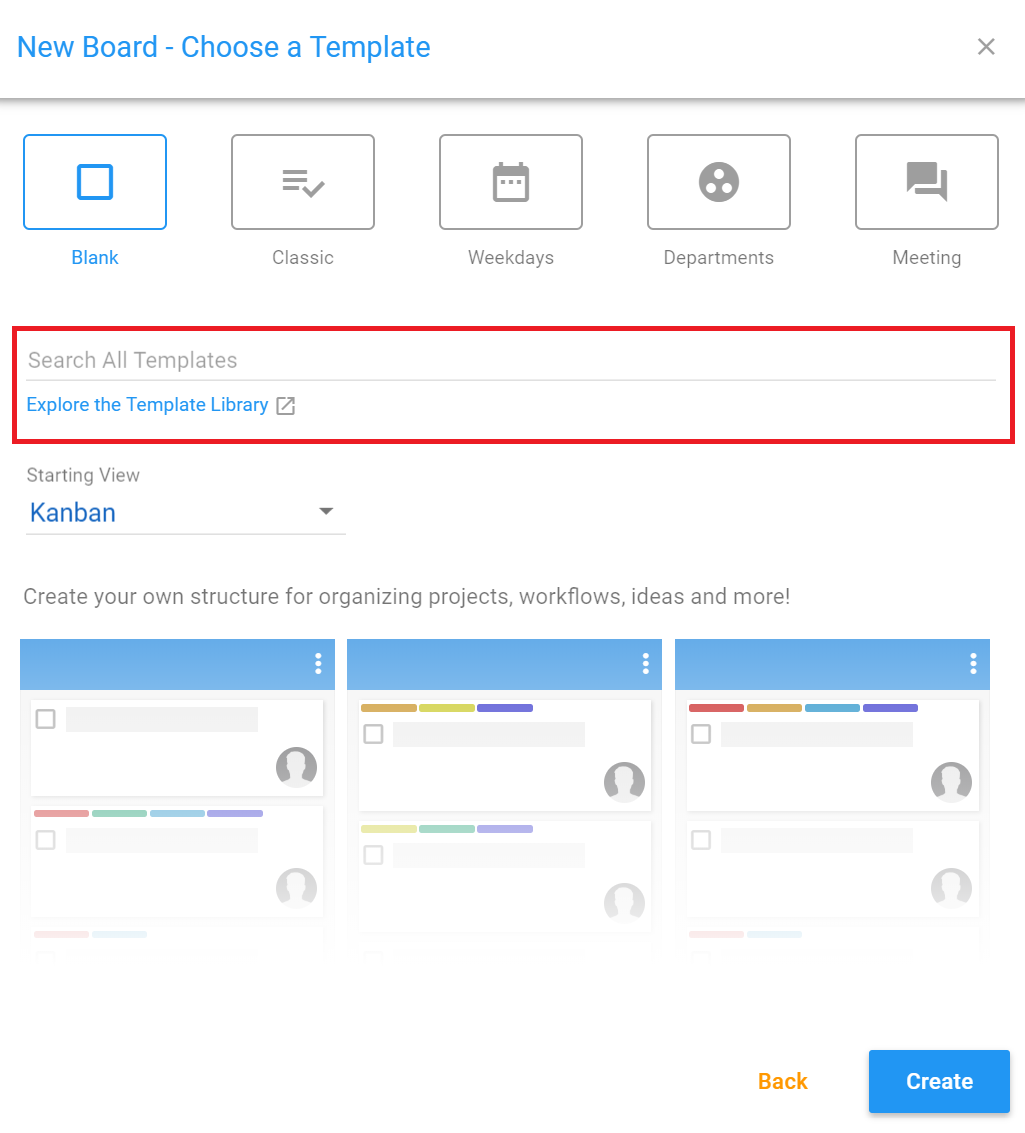
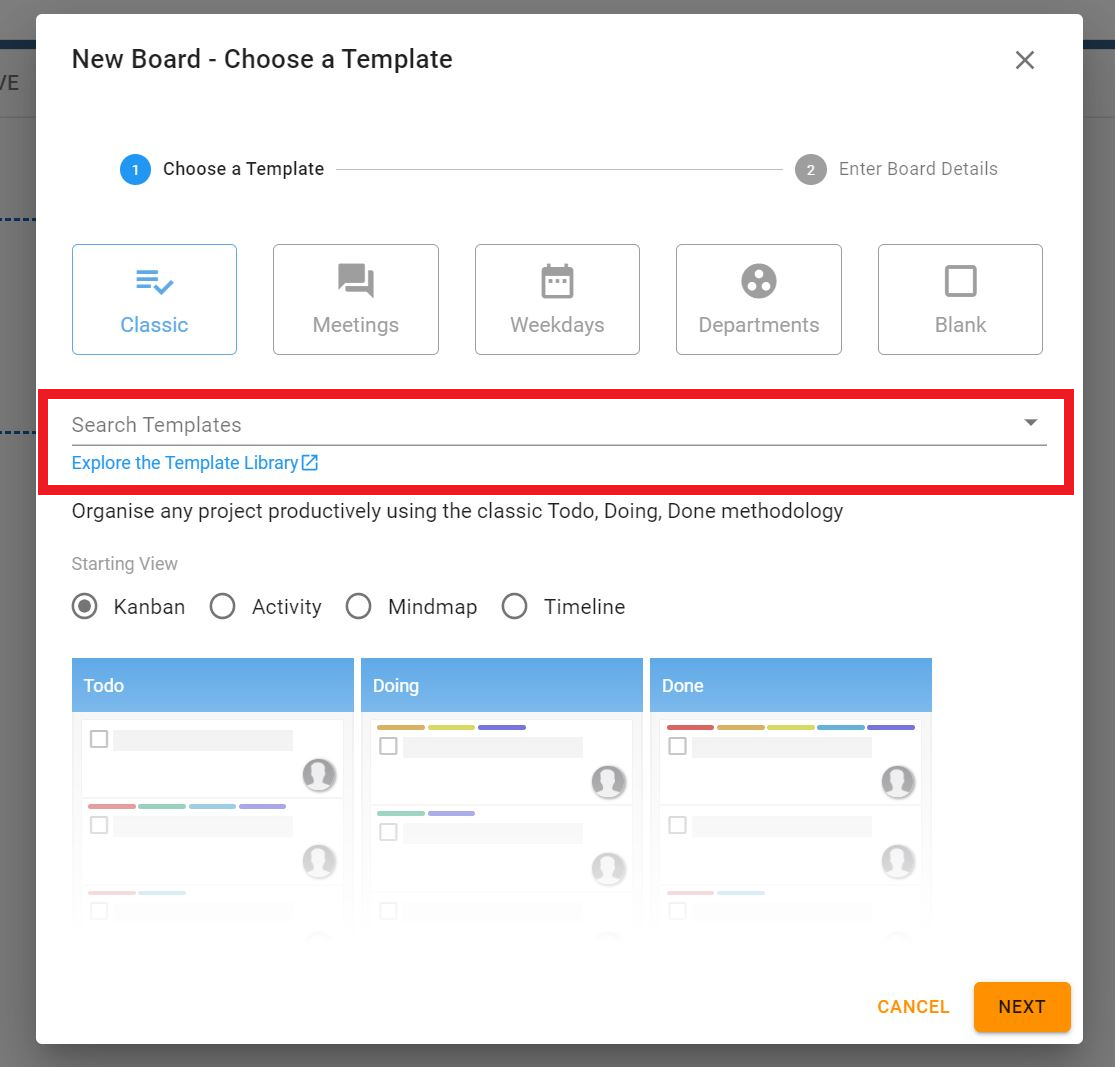
image updates to global templates

diff --git a/docs/boards/howto/accessing-global-templates.md b/docs/boards/howto/accessing-global-templates.md
@@ -14,6 +14,6 @@ Feel free to click in to different templates to see what they contain.
 
 When you’ve found the template you’re looking for, return to your original New Board screen and start typing in the template name. It will appear and you can select it.
 
-You still have the option to select the Starting View, from Kanban, Mind Map or Time Line.
+You still have the option to select the Starting View, from Kanban, MindMap, Timeline or Activty.
 
-Click `Create` and you’ll be taken to your new Board.
+Click `Next` to give your board a name and then `Save` and you’ll be taken to your new Board.
